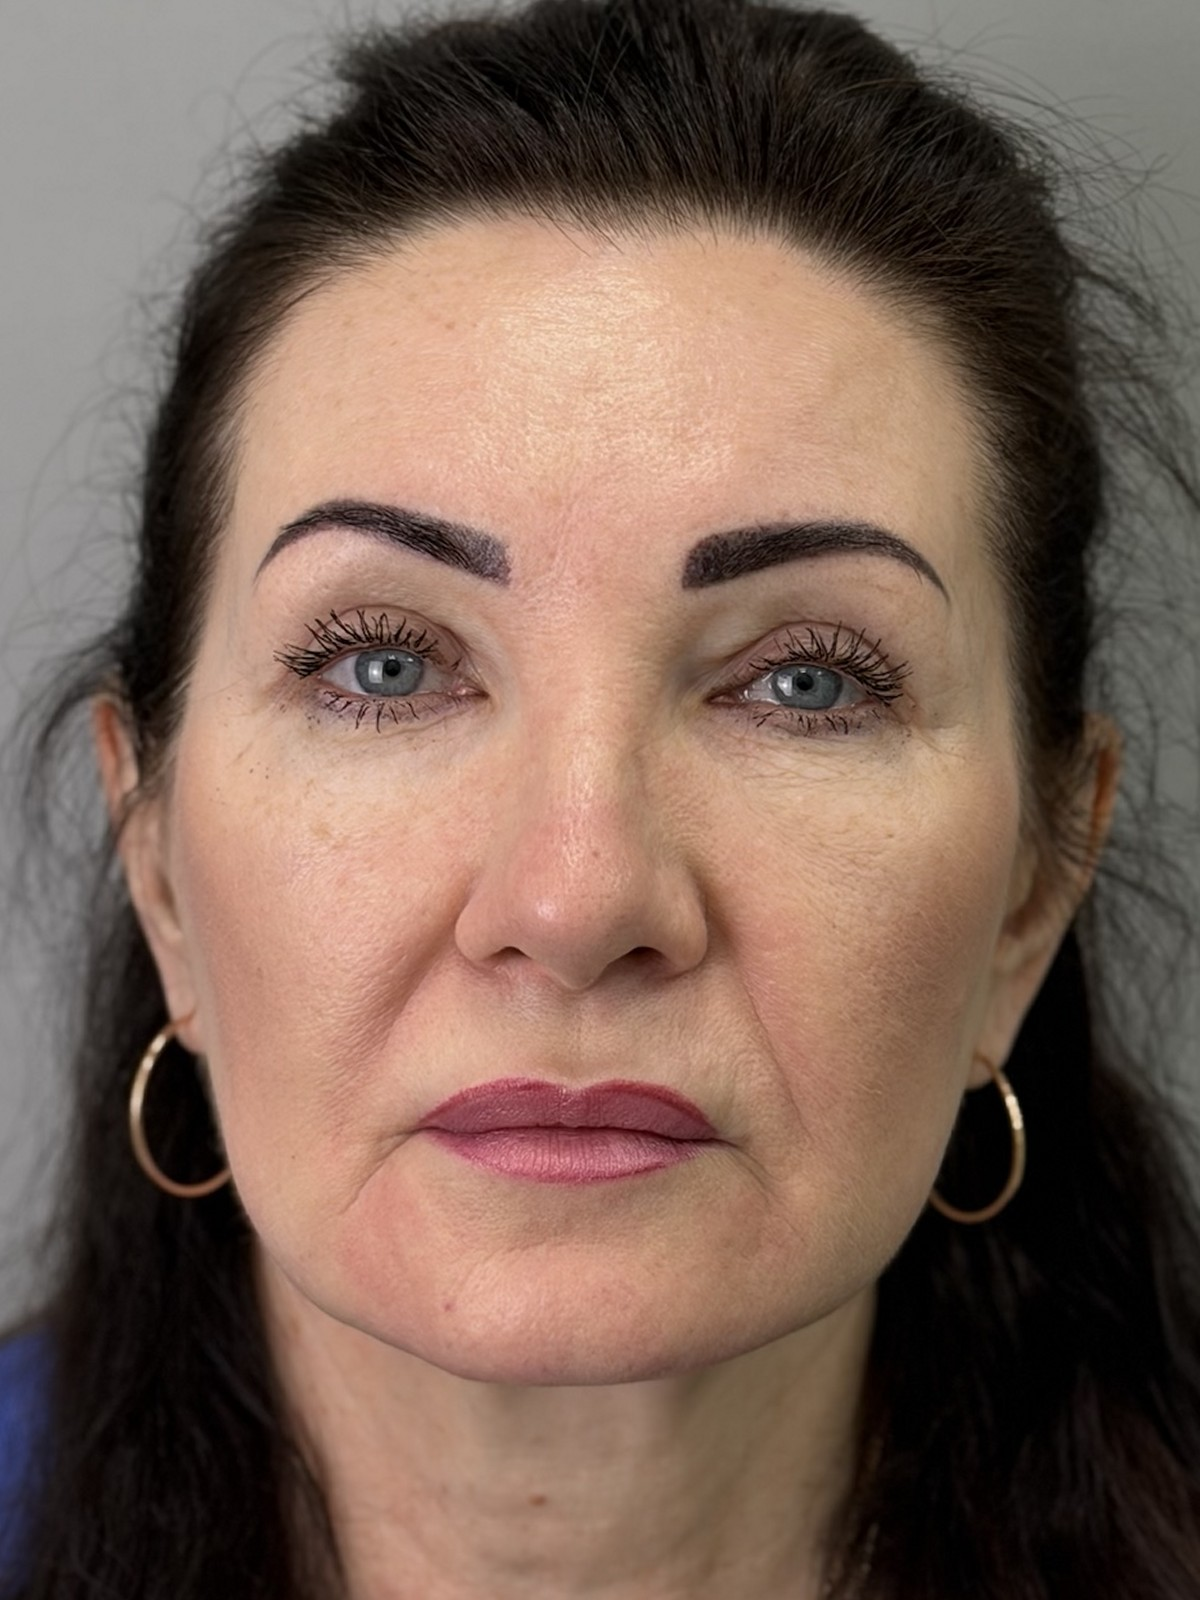
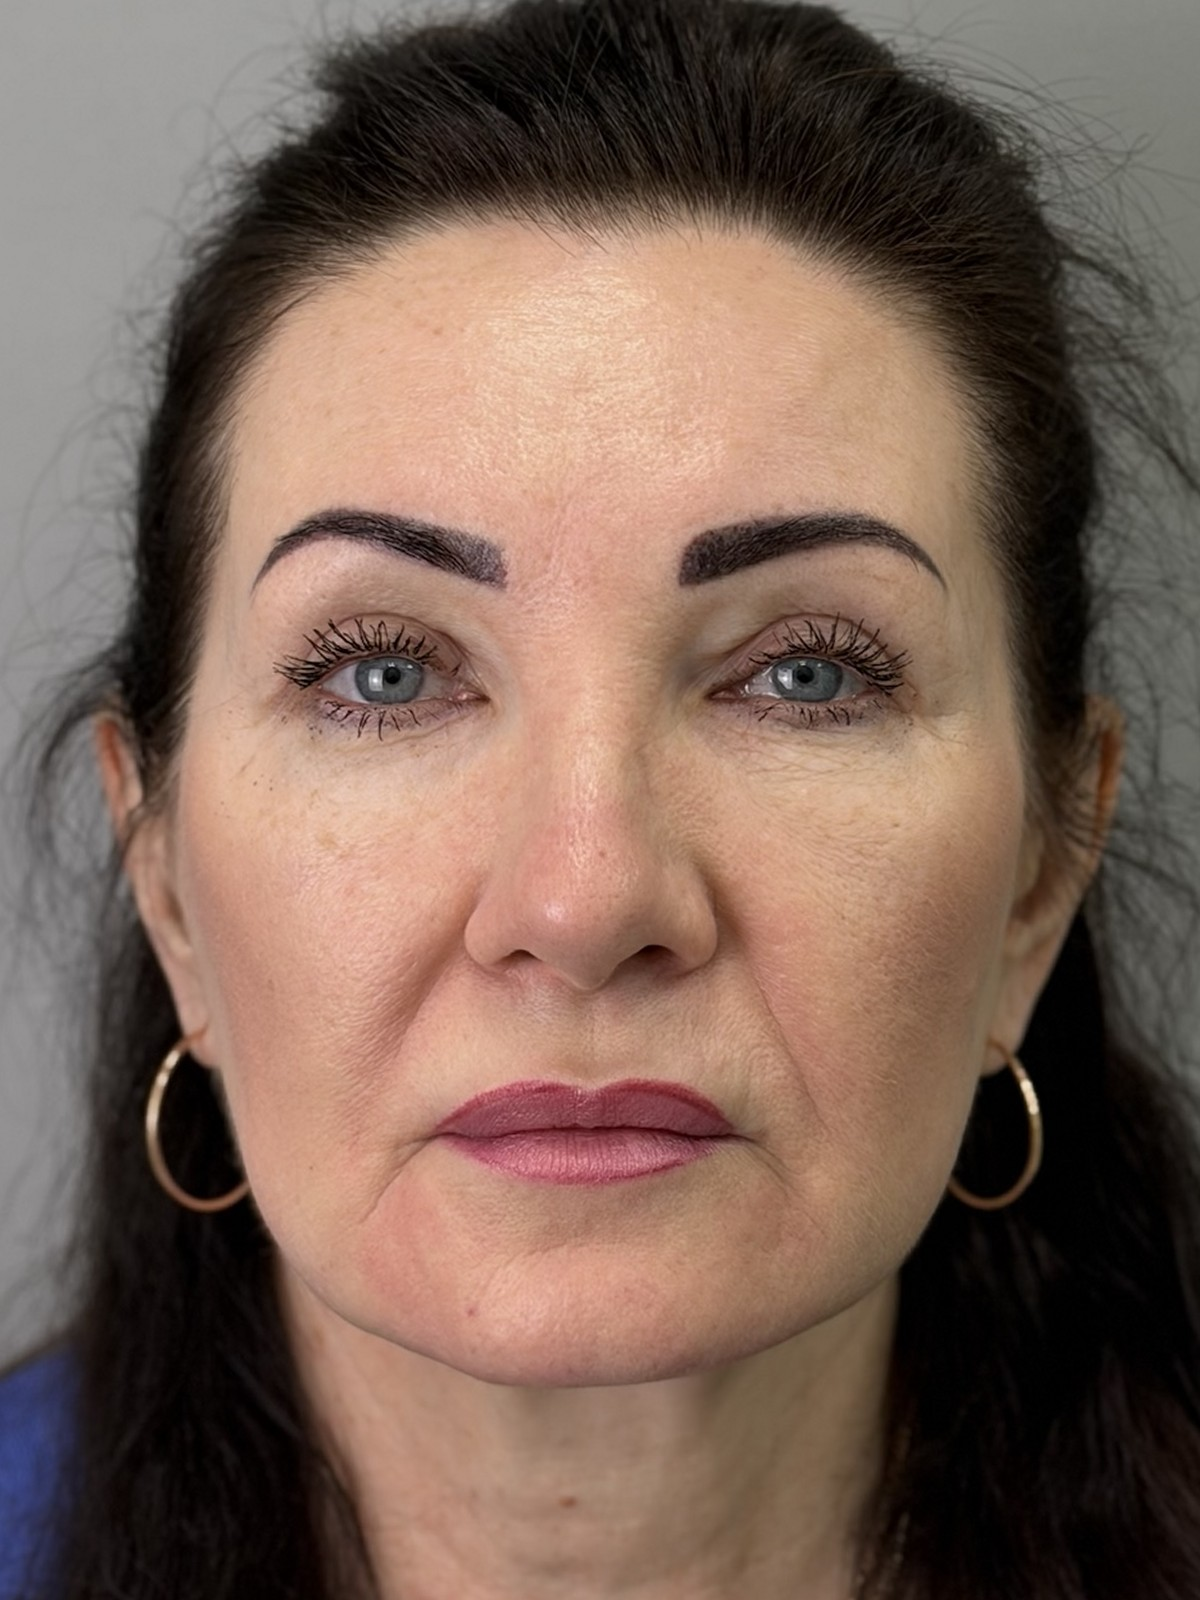
Level eye line on upper blepharoplasty pairs 2 and 4

diff --git a/app.js b/app.js
@@ -181,7 +181,7 @@
     if (!rail || !stage) return;
 
     // Bump when case photos are replaced under the same file name, so browsers don't show cached old ones.
-    var PHOTO_V = '?v=33';
+    var PHOTO_V = '?v=34';
     var CASES = [
       { proc: 'Блефаропластика', title: 'Верхняя блефаропластика', task: 'Тяжёлое верхнее веко, взгляд читается уставшим.', did: 'Иссечение избытка кожи верхнего века, разрез в естественной складке.', result: 'Взгляд открытый, форма глаза сохранена.', term: '3 месяца', expert: '<span>«Развести избыток кожи, опущение брови и птоз — главная задача консультации.</span> <span>От этого зависит весь план.»</span>', photos: [
         { before: 'assets/cases/blepharoplasty-upper-6-before.jpg', after: 'assets/cases/blepharoplasty-upper-6-after.jpg' },

diff --git a/index.html b/index.html
@@ -557,7 +557,7 @@
 <script src="ap5-figure.js?v=29"></script>
 <script src="availability.js?v=29"></script>
 <script src="booking.js?v=29"></script>
-<script src="app.js?v=33"></script>
+<script src="app.js?v=34"></script>
 
 <!-- Motion system — loads after app.js so dynamically-created elements
      (rail buttons, subnav, booking panels) already exist in the DOM. -->
